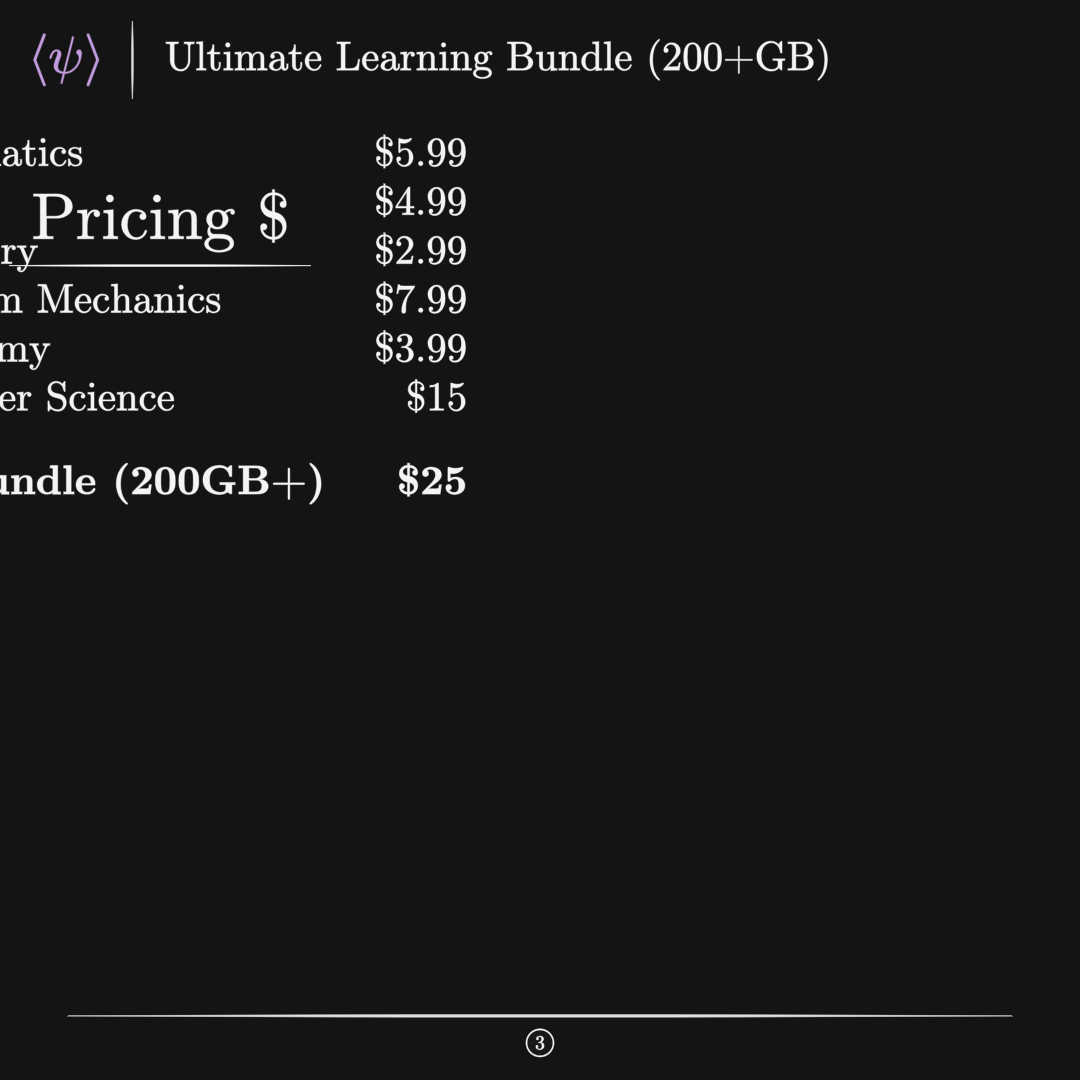
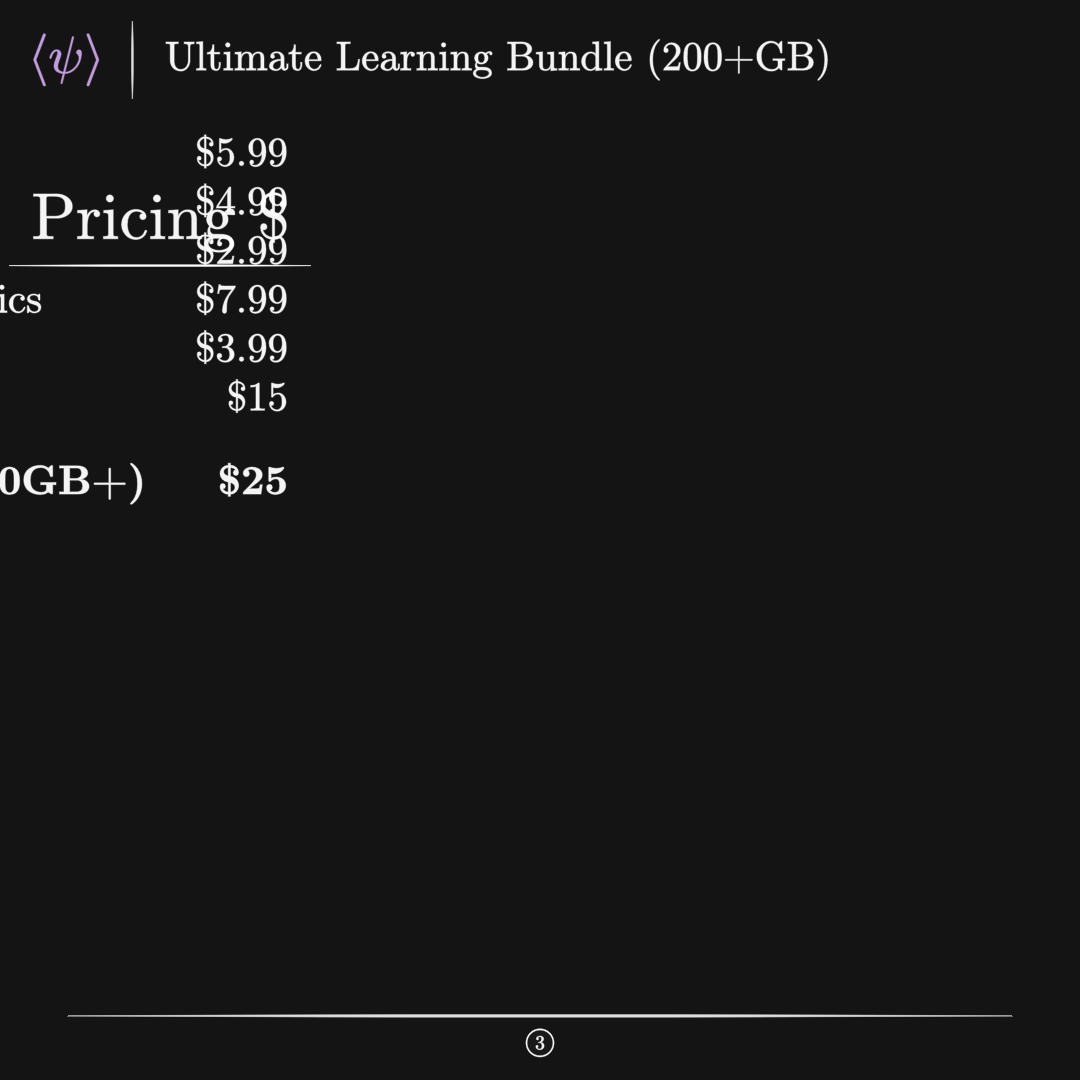
f

diff --git a/test.py b/test.py
@@ -142,5 +142,5 @@ class Pricing(PaidTemplate):
             \textbf{Full Bundle (200GB+)} & \textbf{\$25}
             \end{tabular}
             """, font_size=30)
-        pricing.next_to(price, DOWN, buff=MED_LARGE_BUFF, aligned_edge=DOWN)
+        pricing.next_to(price, DOWN, buff=MED_LARGE_BUFF, aligned_edge=DR)
         self.add(pricing)
